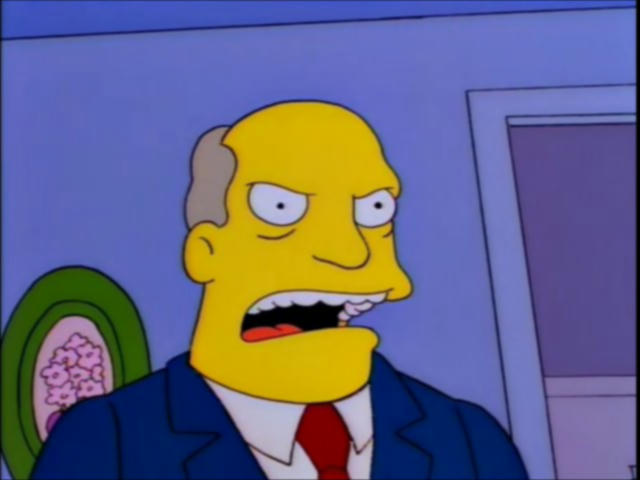
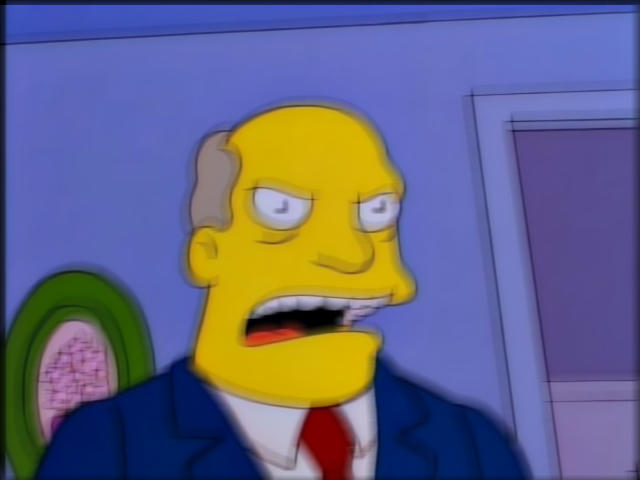
Generate kernel dynamically

Changed region(s): [[0.0, 0.0, 1.0, 1.0], [0.2812, 0.9375, 0.3125, 0.9688], [0.1875, 0.9375, 0.2188, 0.9688]]

diff --git a/index.js b/index.js
@@ -18,7 +18,7 @@ class App extends React.Component {
   }
 
   componentDidMount() {
-    loadWasm().then(result =>
+    loadWasm({ env: { pow: Math.pow } }).then(result =>
       this.setState({ loading: false, wasm: result.instance.exports })
     );
   }

diff --git a/rust-filter/src/filters/gaussian.rs b/rust-filter/src/filters/gaussian.rs
@@ -1,41 +1,31 @@
-fn get_kernel() -> Vec<Vec<f64>> {
-    vec![
-        vec![
-            1.0 / 273.0,
-            4.0 / 273.0,
-            7.0 / 273.0,
-            4.0 / 273.0,
-            1.0 / 273.0,
-        ],
-        vec![
-            4.0 / 273.0,
-            16.0 / 273.0,
-            26.0 / 273.0,
-            16.0 / 273.0,
-            4.0 / 273.0,
-        ],
-        vec![
-            7.0 / 273.0,
-            26.0 / 273.0,
-            41.0 / 273.0,
-            26.0 / 273.0,
-            7.0 / 273.0,
-        ],
-        vec![
-            4.0 / 273.0,
-            16.0 / 273.0,
-            26.0 / 273.0,
-            16.0 / 273.0,
-            4.0 / 273.0,
-        ],
-        vec![
-            1.0 / 273.0,
-            4.0 / 273.0,
-            7.0 / 273.0,
-            4.0 / 273.0,
-            1.0 / 273.0,
-        ],
-    ]
+use std::f64::consts::{E, PI};
+
+fn get_kernel(size: usize) -> Vec<Vec<f64>> {
+    let sigma = 10.0_f64;
+    let size = 2 * size + 1; // Make it always odd so there's always a center element
+    let mut total = 0.0;
+    let mut kernel: Vec<Vec<f64>> = Vec::with_capacity(size);
+
+    for x in 0..size {
+        kernel.push(Vec::with_capacity(size));
+
+        for y in 0..size {
+            kernel[x].push(
+                1.0 / (2.0 * PI * sigma.powi(2))
+                    * E.powf(-1.0 * (x as f64).powi(2) * (y as f64).powi(2) / 2.0 * sigma.powi(2)),
+            );
+
+            total += kernel[x][y];
+        }
+    }
+
+    for x in 0..size {
+        for y in 0..size {
+            kernel[x][y] /= total;
+        }
+    }
+
+    kernel
 }
 
 pub fn gaussian(data: &[u8], width: usize, height: usize) -> Vec<u8> {
@@ -46,7 +36,7 @@ pub fn gaussian(data: &[u8], width: usize, height: usize) -> Vec<u8> {
 
     let mut blurred = data.to_vec();
 
-    let kernel = get_kernel();
+    let kernel = get_kernel(2);
     let kernel_size = kernel.len() as i64;
 
     for i in 0..(width * height) {
